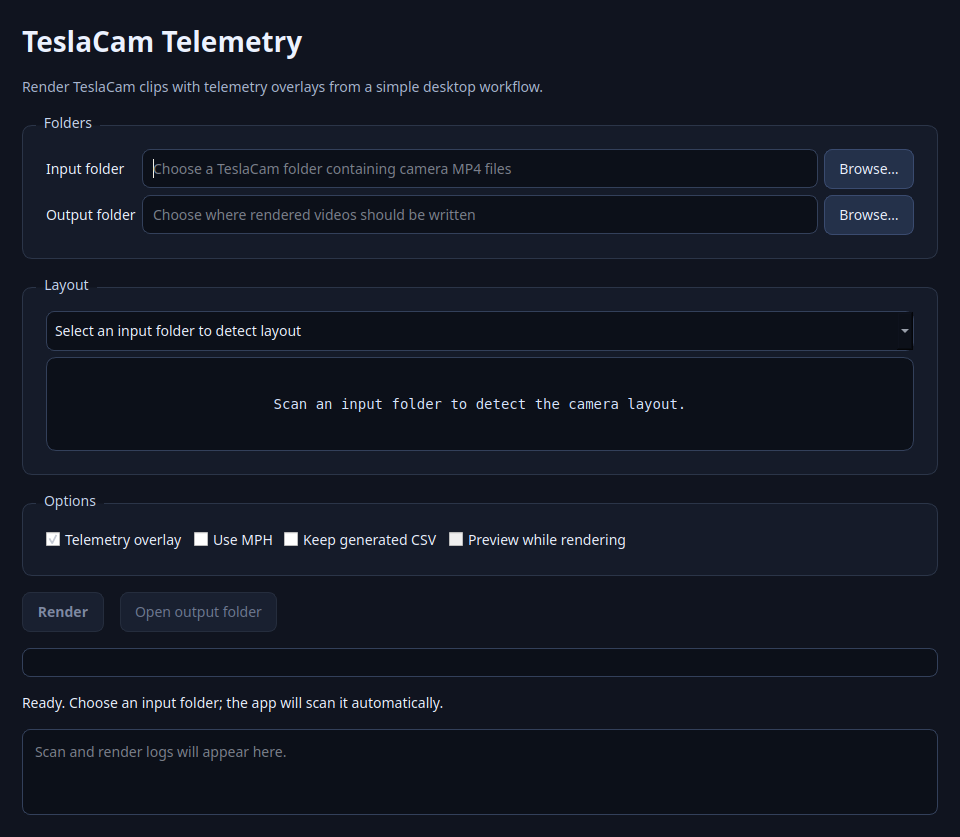
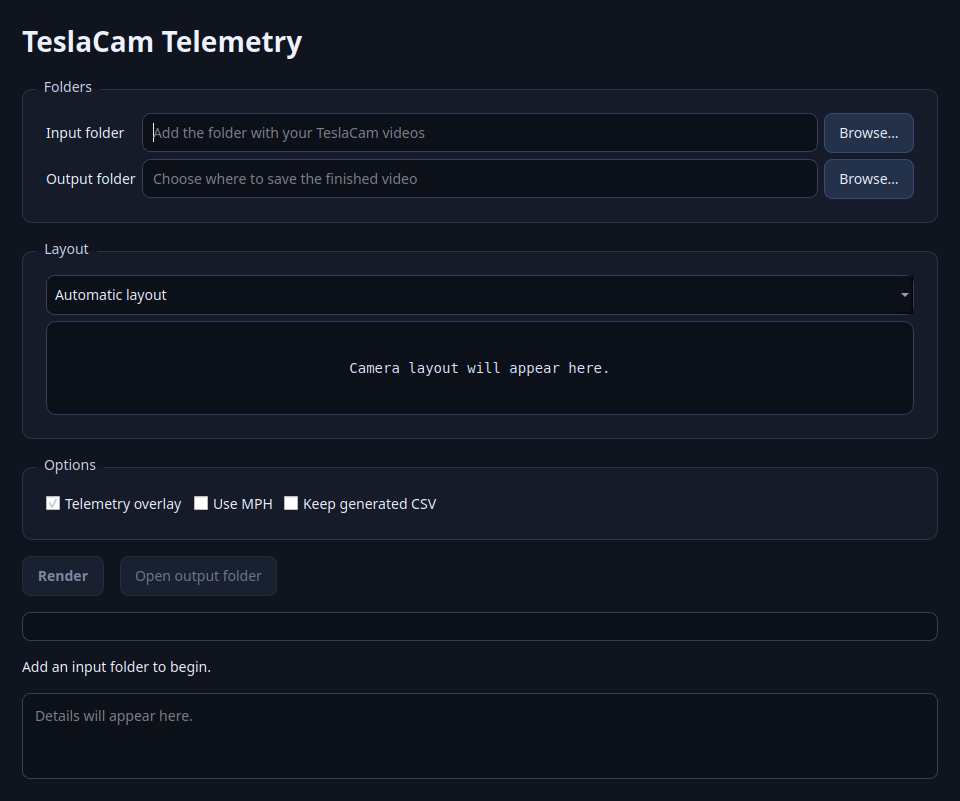
Refine README and desktop UI copy

diff --git a/desktop_ui.py b/desktop_ui.py
@@ -123,7 +123,7 @@ def create_main_window(qt: dict[str, object]):
             try:
                 settings = ui_helpers.build_settings_from_options(self.options)
                 if self.action == "scan":
-                    self.log.emit(f"Scanning {self.input_path} ...")
+                    self.log.emit(f"Checking {self.input_path} ...")
                     self.scan_finished.emit(app_service.scan_input_folder(self.input_path, settings))
                 else:
                     if self.output_path is None:
@@ -169,19 +169,16 @@ def create_main_window(qt: dict[str, object]):
 
             header = QLabel("TeslaCam Telemetry")
             header.setObjectName("Header")
-            subtitle = QLabel("Render TeslaCam clips with telemetry overlays from a simple desktop workflow.")
-            subtitle.setObjectName("Subtitle")
             main_layout.addWidget(header)
-            main_layout.addWidget(subtitle)
 
             paths_group = QGroupBox("Folders")
             paths_layout = QGridLayout(paths_group)
             self.input_edit = QLineEdit()
-            self.input_edit.setPlaceholderText("Choose a TeslaCam folder containing camera MP4 files")
+            self.input_edit.setPlaceholderText("Add the folder with your TeslaCam videos")
             input_browse = QPushButton("Browse…")
             input_browse.clicked.connect(self._choose_input)
             self.output_edit = QLineEdit()
-            self.output_edit.setPlaceholderText("Choose where rendered videos should be written")
+            self.output_edit.setPlaceholderText("Choose where to save the finished video")
             output_browse = QPushButton("Browse…")
             output_browse.clicked.connect(self._choose_output)
             paths_layout.addWidget(QLabel("Input folder"), 0, 0)
@@ -193,14 +190,17 @@ def create_main_window(qt: dict[str, object]):
             main_layout.addWidget(paths_group)
 
             layout_group = QGroupBox("Layout")
+            layout_tooltip = "Layout is selected automatically from the cameras found in the input folder."
+            layout_group.setToolTip(layout_tooltip)
             layout_box = QVBoxLayout(layout_group)
             self.layout_combo = QComboBox()
-            self.layout_combo.setPlaceholderText("Select an input folder to detect layout")
+            self.layout_combo.setPlaceholderText("Automatic layout")
             self.layout_combo.setEnabled(False)
-            self.layout_combo.setToolTip("The first desktop UI auto-selects the default layout for the detected camera set. Manual layout choices come next.")
+            self.layout_combo.setToolTip(layout_tooltip)
             self.layout_combo.currentTextChanged.connect(self._update_layout_diagram)
             self.diagram_label = QLabel()
             self.diagram_label.setObjectName("Diagram")
+            self.diagram_label.setToolTip(layout_tooltip)
             self.diagram_label.setFrameShape(QFrame.Shape.StyledPanel)
             self.diagram_label.setAlignment(Qt.AlignmentFlag.AlignCenter)
             self.diagram_label.setMinimumHeight(94)
@@ -216,14 +216,9 @@ def create_main_window(qt: dict[str, object]):
             self.overlay_check.setChecked(True)
             self.mph_check = QCheckBox("Use MPH")
             self.keep_csv_check = QCheckBox("Keep generated CSV")
-            self.preview_check = QCheckBox("Preview while rendering")
-            self.preview_check.setChecked(False)
-            self.preview_check.setEnabled(False)
-            self.preview_check.setToolTip("Preview is disabled in the desktop UI to keep rendering non-interactive.")
             options_layout.addWidget(self.overlay_check)
             options_layout.addWidget(self.mph_check)
             options_layout.addWidget(self.keep_csv_check)
-            options_layout.addWidget(self.preview_check)
             options_layout.addStretch(1)
             main_layout.addWidget(options_group)
 
@@ -241,13 +236,13 @@ def create_main_window(qt: dict[str, object]):
 
             self.progress = QProgressBar()
             self.progress.setRange(0, 100)
-            self.status_label = QLabel("Ready. Choose an input folder; the app will scan it automatically.")
+            self.status_label = QLabel("Add an input folder to begin.")
             main_layout.addWidget(self.progress)
             main_layout.addWidget(self.status_label)
 
             self.log_panel = QTextEdit()
             self.log_panel.setReadOnly(True)
-            self.log_panel.setPlaceholderText("Scan and render logs will appear here.")
+            self.log_panel.setPlaceholderText("Details will appear here.")
             self.log_panel.setSizePolicy(QSizePolicy.Policy.Expanding, QSizePolicy.Policy.Expanding)
             main_layout.addWidget(self.log_panel, stretch=1)
 
@@ -262,7 +257,6 @@ def create_main_window(qt: dict[str, object]):
                 QMainWindow { background: #10141f; }
                 QWidget { color: #ecf2ff; font-size: 14px; }
                 QLabel#Header { font-size: 28px; font-weight: 700; }
-                QLabel#Subtitle { color: #a9b7d0; }
                 QGroupBox { border: 1px solid #2b3548; border-radius: 10px; margin-top: 12px; padding: 14px; background: #151b29; }
                 QGroupBox::title { subcontrol-origin: margin; left: 14px; padding: 0 6px; color: #c8d6f0; }
                 QLineEdit, QComboBox, QTextEdit { background: #0c1019; border: 1px solid #33405a; border-radius: 8px; padding: 8px; }
@@ -304,7 +298,7 @@ def create_main_window(qt: dict[str, object]):
 
         def _show_layout_placeholder(self):
             self.layout_combo.clear()
-            self.layout_combo.setPlaceholderText("Select an input folder to detect layout")
+            self.layout_combo.setPlaceholderText("Automatic layout")
             self.diagram_label.setText(ui_helpers.layout_diagram(None))
 
         def _append_log(self, message: str):
@@ -320,7 +314,7 @@ def create_main_window(qt: dict[str, object]):
             self._last_scan = None
             self.open_output_button.setEnabled(False)
             self._show_layout_placeholder()
-            self.status_label.setText("Input changed. Scanning will run automatically when the folder is selected.")
+            self.status_label.setText("Press Enter to check the input folder.")
             self._sync_buttons()
 
         def _scan_selected_input(self):
@@ -364,7 +358,7 @@ def create_main_window(qt: dict[str, object]):
             self._thread.finished.connect(self._worker_stopped)
             if action == "scan":
                 self._worker.scan_finished.connect(self._on_scan_finished)
-                self._set_busy(True, "Scanning input folder…")
+                self._set_busy(True, "Checking input folder…")
             else:
                 self.progress.setRange(0, 100)
                 self.progress.setValue(0)
@@ -402,7 +396,7 @@ def create_main_window(qt: dict[str, object]):
                 self._show_layout_placeholder()
             summary = ui_helpers.format_scan_summary_for_ui(scan_result)
             self._append_log(summary)
-            self.status_label.setText("Ready to render." if scan_result.is_ready else "Scan found issues. See log.")
+            self.status_label.setText("Ready to render." if scan_result.is_ready else "Check the details before rendering.")
             self.progress.setRange(0, 100)
             self.progress.setValue(100 if scan_result.is_ready else 0)
 
@@ -417,13 +411,13 @@ def create_main_window(qt: dict[str, object]):
             self.open_output_button.setEnabled(True)
             self.progress.setValue(100)
             output_text = self._native_path_text(result.output_path)
-            self.status_label.setText(f"Render complete: {output_text}")
-            self._append_log(f"Render complete: {output_text}")
+            self.status_label.setText(f"Finished: {output_text}")
+            self._append_log(f"Finished: {output_text}")
 
         def _on_failed(self, message: str):
             self.progress.setRange(0, 100)
             self.progress.setValue(0)
-            self.status_label.setText("Operation failed. See log.")
+            self.status_label.setText("Something went wrong. See details below.")
             self._append_log(f"Error: {message}")
             QMessageBox.warning(self, APP_NAME, message)
 

diff --git a/tests/test_desktop_ui.py b/tests/test_desktop_ui.py
@@ -39,7 +39,13 @@ class TestDesktopUiLayoutState(unittest.TestCase):
 
         self.assertEqual(window.layout_combo.count(), 0)
         self.assertEqual(window.layout_combo.currentText(), "")
-        self.assertIn("Scan an input folder", window.diagram_label.text())
+        self.assertEqual(window.layout_combo.placeholderText(), "Automatic layout")
+        self.assertIn("Camera layout", window.diagram_label.text())
+        self.assertEqual(window.status_label.text(), "Add an input folder to begin.")
+        self.assertEqual(
+            window.layout_combo.toolTip(),
+            "Layout is selected automatically from the cameras found in the input folder.",
+        )
         self.assertFalse(window.render_button.isEnabled())
 
     def test_scan_result_populates_detected_layout(self):

diff --git a/modules/ui_helpers.py b/modules/ui_helpers.py
@@ -66,7 +66,7 @@ def camera_display_name(camera_key: str) -> str:
 def layout_diagram(layout: layouts.LayoutConfig | None) -> str:
     """Return a compact text diagram for the selected layout."""
     if layout is None:
-        return "Scan an input folder to detect the camera layout."
+        return "Camera layout will appear here."
 
     if layout["required_cameras"] == layouts.SIX_CAMERA_KEYS:
         return "[ Left pillar ] [    Front    ] [ Right pillar ]\n[ Left repeater ] [    Rear     ] [ Right repeater ]"

diff --git a/README.md b/README.md
@@ -55,26 +55,17 @@ This is an unofficial community project and is not affiliated with, endorsed by,
 4. **Install the app**:
    ```bash
    python -m pip install .
-   teslacam-telemetry --help
-   teslacam-telemetry-ui --help
    ```
 
    To update an existing normal install after pulling new code:
    ```bash
    git pull
    python -m pip install --upgrade .
-   teslacam-telemetry --help
-   teslacam-telemetry-ui --help
    ```
 
    To uninstall the app:
    ```bash
    python -m pip uninstall teslacam-telemetry
-   ```
-
-   For development, install in editable mode instead:
-   ```bash
-   python -m pip install -e .
    ```
 
 5. **Install FFmpeg (if needed)**:
@@ -148,19 +139,18 @@ teslacam-telemetry-ui
 
 ![Screenshot of the TeslaCam Telemetry desktop app](docs/assets/desktop-ui.png)
 
-The desktop app provides a simple workflow:
+Basic workflow:
 
-1. Choose the TeslaCam input folder containing the camera MP4 files.
-2. The app automatically scans the folder and detects the camera set.
-3. Choose an output folder.
-4. Select render options:
+1. Add the folder with your TeslaCam videos.
+2. Choose where to save the finished video.
+3. Select render options:
    * **Telemetry overlay**: Adds speed, gear, steering, pedal, and driving-state data when telemetry is available.
    * **Use MPH**: Shows speed in MPH instead of KM/H.
    * **Keep generated CSV**: Keeps telemetry CSV files generated from embedded SEI metadata.
-5. Click **Render**.
-6. When rendering completes, click **Open output folder** to view the finished video.
+4. Click **Render**.
+5. When rendering completes, click **Open output folder** to view the finished video.
 
-The app does not choose a layout when it first opens. After you select an input folder, it scans the footage and auto-selects the matching layout:
+After you add an input folder, the app detects the available cameras and selects the matching layout:
 
 * **Four-camera standard** for front, back, left repeater, and right repeater clips.
 * **Six-camera grid** for front, back, repeaters, and pillar-camera clips.
@@ -185,17 +175,14 @@ teslacam-telemetry-ui --input /path/to/teslacam/clips --output /path/to/save/vid
 * `--keep-csv`: Keeps generated `csv` data file, instead of just deleting it after use.
 
 ## Future Roadmap
-The long-term direction is to make TeslaCam Telemetry a simple, reliable utility for turning raw TeslaCam folders into polished multi-camera videos without requiring Python or command-line knowledge.
-
 Planned priorities:
 
-* **Windows Executable**: Provide a packaged `TeslaCam Telemetry.exe` / portable ZIP so non-technical users can download, extract, and run the app without installing Python manually.
-* **Smarter Desktop Workflow**: Add drag-and-drop input, clearer scan summaries, and stronger preflight validation for missing clips, mixed camera sets, and telemetry availability before rendering starts.
-* **Layout Options**: Add a friendly layout selector with generic names such as **Four-camera standard**, **Six-camera grid**, **Front focus**, and **Balanced grid**, avoiding hardware-specific labels in the UI.
-* **Clip Group Selection**: Show detected timestamp/event groups so users can render all clips, selected clips, a time range, or separate outputs per event.
-* **Render Presets**: Provide simple output-quality choices such as fast preview, standard quality, high quality, and smaller shareable files.
-* **Progress, Cancel, and Logs**: Improve long-render feedback with current clip/frame progress, safe cancellation, and shareable troubleshooting logs.
-* **Telemetry Overlay Presets**: Offer cleaner overlay styles such as minimal, detailed, and video-only, with more control over which telemetry fields are shown.
+* **Windows app download**: Provide a packaged `.exe` or portable ZIP so users do not need to install Python manually.
+* **Layout choices**: Add friendly layout options such as **Four-camera standard**, **Six-camera grid**, **Front focus**, and **Balanced grid**.
+* **Clip selection**: Show detected clip groups so users can render everything, selected clips, or a time range.
+* **Render presets**: Add simple quality choices such as fast preview, standard quality, high quality, and smaller shareable files.
+* **Better render controls**: Add clearer progress, cancellation, and troubleshooting details for long renders.
+* **Overlay presets**: Add simple telemetry overlay styles such as minimal, detailed, and video-only.
 
 ## Known Limitations
 * Mixed four-camera and six-camera batches are not rendered together in one output; each batch must use one complete camera set.